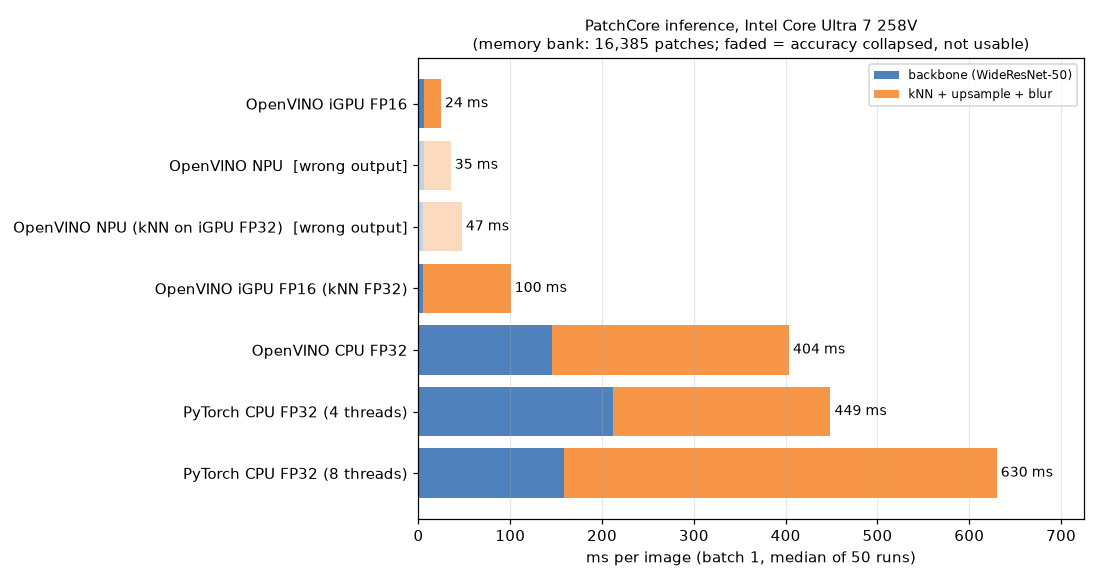
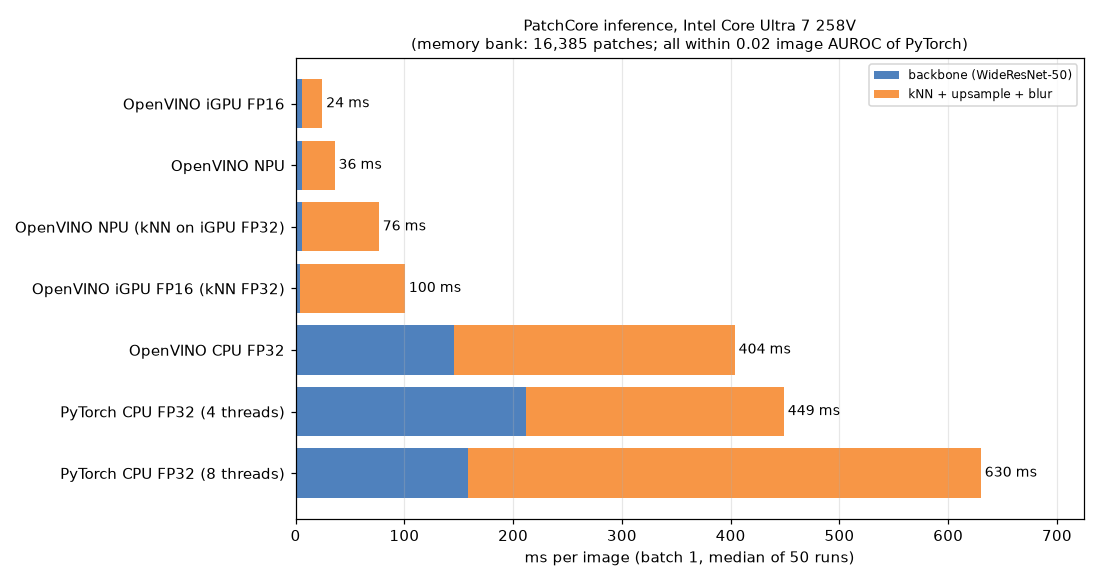
13 PatchCore: fix wrong NPU features (OpenVINO NPU miscompiles padded AvgPool)
Root cause, found by comparing CPU vs NPU tensors stage by stage: the 3x3
local averaging F.avg_pool2d(f, 3, 1, 1) exports as AvgPool with built-in
padding and exclude_pad=false. The NPU compiler (OpenVINO 2026.4.1, NPU 4000)
returns wrong values for every second block of 32 channels on maps above a
size threshold (one-op repro: 512x29x29 or 1024x28x28). Stem and layer1-3 were
correct; the 0.76 / 0.56 correlations were half-right, half-garbage channels.

Fix: zero Pad + unpadded AvgPool (local_average), bit-identical in PyTorch.
NPU now 36 ms/img with AUROC 1.000 / 0.976 / 0.968 (was 0.554 / 0.596 / 0.408).
benchmark.py always re-exports the IR (no stale model) and gains --only to
re-run selected configurations. Test checks the export has no padded AvgPool.

diff --git a/13-anomaly-detection-patchcore/benchmark.py b/13-anomaly-detection-patchcore/benchmark.py
@@ -75,10 +75,10 @@ class Knn(nn.Module):
 
 
 def convert(module, example, path):
-    """Static input shape: the NPU compiler rejects dynamic dimensions."""
-    if not path.exists():
-        m = ov.convert_model(module.eval(), example_input=example, input=[tuple(example.shape)])
-        ov.save_model(m, str(path), compress_to_fp16=False)
+    """Static input shape: the NPU compiler rejects dynamic dimensions. Always re-exported (a few seconds), so a
+    stale IR from older code (e.g. the padded AvgPool the NPU miscomputes) is never reused."""
+    m = ov.convert_model(module.eval(), example_input=example, input=[tuple(example.shape)])
+    ov.save_model(m, str(path), compress_to_fp16=False)
     return path
 
 
@@ -163,6 +163,11 @@ def main():
     ap.add_argument("--warmup", type=int, default=10)
     ap.add_argument("--threads", type=int, nargs="+", default=[4, 8], help="PyTorch CPU thread counts to time")
     ap.add_argument("--plot-only", action="store_true", help="redraw docs/latency.png from docs/latency.json")
+    ap.add_argument(
+        "--only", nargs="+", metavar="TEXT",
+        help="re-run only the OpenVINO configurations whose name contains TEXT (e.g. NPU) and update them in the "
+        "existing docs/latency.json (no PyTorch runs)",
+    )  # fmt: skip
     args = ap.parse_args()
     if args.plot_only:
         return plot(json.loads((DOCS / "latency.json").read_text()), DOCS / "latency.png")
@@ -187,6 +192,7 @@ def main():
             "openvino": ov.get_version(),
             "torch": torch.__version__,
             "devices": {d: core.get_property(d, "FULL_DEVICE_NAME") for d in devices},
+            **({"npu_driver": core.get_property("NPU", "NPU_DRIVER_VERSION")} if "NPU" in devices else {}),
         },
         "latency_category": args.latency_category,
         "memory_bank_size": int(banks[args.latency_category].shape[0]),
@@ -194,10 +200,14 @@ def main():
         "configs": {},
     }
     print(results["machine"], flush=True)
+    configs = [c for c in CONFIGS if not args.only or any(t in c[0] for t in args.only)]
+    if args.only:  # update the selected configurations in place, keep the rest of the file
+        old = json.loads((DOCS / "latency.json").read_text())
+        results["configs"] = old["configs"]
 
     # PyTorch reference (the code path run.py uses: model.predict, batch 1).
     lat_bank = banks[args.latency_category]
-    for n in args.threads:
+    for n in [] if args.only else args.threads:
         torch.set_num_threads(n)
         model.memory_bank = lat_bank
         with torch.no_grad():
@@ -208,7 +218,7 @@ def main():
         print(name, results["configs"][name], flush=True)
     torch.set_num_threads(max(args.threads))
 
-    for name, (bdev, bprec), (kdev, kprec) in CONFIGS:
+    for name, (bdev, bprec), (kdev, kprec) in configs:
         if bdev not in devices or kdev not in devices:
             results["configs"][name] = {"error": f"device not available ({devices})"}
             continue
@@ -230,7 +240,7 @@ def main():
 
     # PyTorch accuracy reference, same code path as the OpenVINO models.
     ref = results["configs"][f"PyTorch CPU FP32 ({max(args.threads)} threads)"]
-    for c in args.accuracy_categories:
+    for c in [] if args.only else args.accuracy_categories:
         model.memory_bank = banks[c]
 
         def torch_predict(x):
@@ -274,7 +284,8 @@ def plot(results, path):
     ax.set_xlim(0, total.max() * 1.15)
     ax.set_title(
         "PatchCore inference, Intel Core Ultra 7 258V\n"
-        f"(memory bank: {results['memory_bank_size']:,} patches; faded = accuracy collapsed, not usable)",
+        f"(memory bank: {results['memory_bank_size']:,} patches"
+        + ("; faded = accuracy collapsed, not usable)" if any(bad) else "; all within 0.02 image AUROC of PyTorch)"),
         fontsize=10,
     )
     ax.legend(loc="upper right", fontsize=8)

diff --git a/tests/test_13_patchcore.py b/tests/test_13_patchcore.py
@@ -61,3 +61,43 @@ def test_greedy_coreset_covers_every_cluster():
     bank = bare_patchcore(5 / len(feats), proj_dim=32)._greedy_coreset(feats)
     picked = labels[torch.cdist(bank, feats).argmin(dim=1)]
     assert sorted(picked.tolist()) == [0, 1, 2, 3, 4]
+
+
+class TinyBackbone(torch.nn.Module):
+    """Stand-in for WideResNet-50 with the attributes FeatureExtractor uses (no weight download)."""
+
+    def __init__(self):
+        super().__init__()
+        torch.manual_seed(0)
+        self.conv1 = self.bn1 = self.relu = self.maxpool = self.layer1 = torch.nn.Identity()
+        self.layer2 = torch.nn.Conv2d(3, 4, 1)
+        self.layer3 = torch.nn.Conv2d(4, 6, 1, stride=2)
+
+
+def test_feature_extractor_local_average_is_zero_padded_3x3_mean():
+    """Each position = mean of its 3x3 neighborhood, zeros outside the map (avg_pool2d count_include_pad=True),
+    the semantics the saved memory banks were computed with."""
+    b = TinyBackbone().eval()
+    x = torch.rand(2, 3, 16, 16)
+    with torch.no_grad():
+        out = pc.FeatureExtractor(b)(x)
+        f2, f3 = b.layer2(x), b.layer3(b.layer2(x))
+        f3 = torch.nn.functional.avg_pool2d(f3, 3, 1, 1)
+        f3 = torch.nn.functional.interpolate(f3, size=(16, 16), mode="bilinear", align_corners=False)
+        ref = torch.cat([torch.nn.functional.avg_pool2d(f2, 3, 1, 1), f3], dim=1)
+    assert out.shape == (2, 10, 16, 16)
+    assert torch.allclose(out, ref, atol=1e-6)
+
+
+def test_feature_extractor_exports_avgpool_without_padding():
+    """The Intel NPU compiler (OpenVINO 2026.4, Core Ultra 200V) miscomputes AvgPool with built-in padding and
+    exclude_pad=false on large maps: every second block of 32 channels comes out wrong. The padding must be a
+    separate Pad op so the exported graph has no padded AvgPool."""
+    ov = pytest.importorskip("openvino")
+    x = torch.rand(1, 3, 16, 16)
+    m = ov.convert_model(pc.FeatureExtractor(TinyBackbone()).eval(), example_input=x, input=[tuple(x.shape)])
+    pools = [op for op in m.get_ordered_ops() if op.get_type_name() == "AvgPool"]
+    assert len(pools) == 2
+    for op in pools:
+        attrs = op.get_attributes()
+        assert not any(attrs["pads_begin"]) and not any(attrs["pads_end"]), attrs

diff --git a/13-anomaly-detection-patchcore/patchcore.py b/13-anomaly-detection-patchcore/patchcore.py
@@ -15,6 +15,13 @@ import torch.nn.functional as F
 from torchvision.models import Wide_ResNet50_2_Weights, wide_resnet50_2
 
 
+def local_average(f):
+    """3x3 mean with zero padding: the same values as F.avg_pool2d(f, 3, 1, 1) (count_include_pad=True), but
+    written as Pad + unpadded AvgPool. The Intel NPU compiler (OpenVINO 2026.4) miscomputes a padded AvgPool
+    with count_include_pad on large maps (every second block of 32 channels wrong); the split form is exact."""
+    return F.avg_pool2d(F.pad(f, (1, 1, 1, 1)), 3, 1)
+
+
 class FeatureExtractor(nn.Module):
     """Mid-level WideResNet-50 features (layer2 + layer3): local enough for small defects, semantic
     enough to ignore pixel noise. A module so the same code is exported to ONNX / OpenVINO."""
@@ -28,9 +35,9 @@ class FeatureExtractor(nn.Module):
         x = b.maxpool(b.relu(b.bn1(b.conv1(x))))
         f2 = b.layer2(b.layer1(x))
         f3 = b.layer3(f2)
-        # Locally aware patch features: average each position with its 3x3 neighborhood.
-        f2 = F.avg_pool2d(f2, 3, 1, 1)
-        f3 = F.avg_pool2d(f3, 3, 1, 1)
+        # Locally aware patch features: average each position with its 3x3 neighborhood (zeros outside).
+        f2 = local_average(f2)
+        f3 = local_average(f3)
         f3 = F.interpolate(f3, size=f2.shape[-2:], mode="bilinear", align_corners=False)
         return torch.cat([f2, f3], dim=1)  # (B, 1536, H, W)
 

diff --git a/13-anomaly-detection-patchcore/README.md b/13-anomaly-detection-patchcore/README.md
@@ -115,9 +115,10 @@ OpenVINO 2026.4. Every configuration is also re-scored on the full bottle, grid 
 | OpenVINO FP32 | CPU | 145 ms | 265 ms | **404 ms** | 1.1× | 1.000 / 0.977 / 0.968 |
 | OpenVINO FP16 backbone, FP32 kNN | Arc 140V iGPU | 4.4 ms | 78 ms | 100 ms | 4.5× | 1.000 / 0.977 / 0.968 |
 | **OpenVINO FP16** | **Arc 140V iGPU** | **5.6 ms** | **12 ms** | **24 ms** | **18×** | **1.000 / 0.977 / 0.968** |
-| OpenVINO (FP16) | AI Boost NPU | 6.0 ms | 28 ms | 35 ms | (13×) | **0.554 / 0.596 / 0.408: wrong output** |
+| OpenVINO (FP16) | AI Boost NPU | 5.8 ms | 27 ms | **36 ms** | **12.5×** | 1.000 / 0.976 / 0.968 |
 
-(Totals include the copy between the two models. Pixel AUROC on the iGPU is also unchanged: 0.984 / 0.976 / 0.989.
+(Totals include the copy between the two models. Pixel AUROC on the iGPU and the NPU is also unchanged (±0.001): 0.984 / 0.976 / 0.989.
+NPU backbone + FP32 kNN on the iGPU: 76 ms, AUROC identical to PyTorch.
 Full numbers: [`docs/latency.json`](docs/latency.json).)
 
 ![Latency per configuration](docs/latency.png)
@@ -131,11 +132,27 @@ Full numbers: [`docs/latency.json`](docs/latency.json).)
 - **On the CPU alone OpenVINO helps little** (1.1× here, 1.4× in an earlier run: 283 vs 389 ms): most of the time
   is the large kNN matrix product, which PyTorch already does with an optimized BLAS. Timings on this laptop
   vary ±30 % between runs because other jobs share it; the iGPU numbers were the most stable (24–32 ms).
-- **The NPU compiles and runs fast, but computes the wrong features.** Its backbone output correlates only 0.76
-  (layer 2) and 0.56 (layer 3) with the CPU's on the same input, so AUROC falls to chance level. The iGPU in FP16
-  matches the CPU to 0.002. The first attempt didn't even compile on the NPU (it needs static input shapes; the
-  compiler aborted the process). I didn't find the root cause (likely an NPU compiler issue with one of the
-  backbone's layers); the NPU is not usable for this model as is.
+- **The NPU now matches too: 36 ms per image, same AUROC** (grid 0.976 vs 0.977, the same small FP16 kNN effect
+  as on the iGPU). It first gave chance-level AUROC (0.554 / 0.596 / 0.408) because of an **NPU compiler bug**, found
+  by comparing tensors stage by stage on 3 test images against PyTorch:
+  - every layer of the WideResNet (stem, layer1–3) matched the CPU to FP16 precision; the error appeared at the
+    3×3 local averaging, `F.avg_pool2d(f, 3, 1, 1)`, which exports as an OpenVINO `AvgPool` with built-in padding
+    and `exclude_pad=false` (PyTorch's default `count_include_pad=True`);
+  - on the NPU that op returns wrong values in **every second block of 32 channels** (channels 32–63, 96–127, …),
+    while the other half matches to 1e-4. Hence the misleading 0.76 / 0.56 "correlations": half the channels were
+    right, half garbage;
+  - smallest reproduction: one `AvgPool(3×3, stride 1, pad 1)` on random data. It is correct up to 512 × 28 × 28 and
+    wrong from 512 × 29 × 29 or 1,024 × 28 × 28 (a size threshold, probably where the compiler starts tiling the op;
+    inside the full model even the 512 × 28 × 28 one fails). The same op with `exclude_pad=true`, a separate `Pad`
+    followed by an unpadded `AvgPool`, or a 3×3 depthwise convolution are all correct. It is not FP16 precision,
+    input layout, output order, the static shapes or a stale compile cache (reproduced with no cache dir);
+  - **fix:** [`patchcore.py`](patchcore.py) writes the averaging as zero `Pad` + unpadded `AvgPool`
+    (`local_average`). That is the same computation, so PyTorch features are bit-identical (max difference 0.0;
+    memory banks and all accuracy numbers unchanged), and the NPU backbone now matches the CPU (correlation 1.00000
+    on both layers). A unit test checks the exported graph has no padded `AvgPool`. Versions: OpenVINO 2026.4.1, NPU
+    compiler 8.4, driver 1004724 (Core Ultra 7 258V, NPU 4000).
+  - The NPU needs static input shapes (with dynamic shapes the compiler aborted the process), and `benchmark.py`
+    now re-exports the IR on every run so a stale model is never reused.
 - Before: the README's desktop number was ~390–570 ms per image in PyTorch (batch 8, including data loading).
 
 ## How it works
@@ -179,6 +196,7 @@ python run.py                     # all 15 categories, resumable (skips finished
 python threshold.py               # operating thresholds at 99 % recall (--recall 0.95 for another target)
 python report.py                  # docs/results_chart.png + the README table
 python benchmark.py               # OpenVINO export + latency on CPU / iGPU / NPU + accuracy check
+python benchmark.py --only NPU    # re-run only the NPU configurations, update them in docs/latency.json
 ```
 
 Get the data (≈ 5 GB for all 15 categories, loose PNG files, no archive to extract):
@@ -232,8 +250,8 @@ python web/build.py && python web/validate.py     # writes to ../../cv-data/mvte
 - Calibrate the threshold with a safety margin (or a conformal bound) so the 99 % promise holds on unseen parts,
   and report it against more defect samples (e.g. MVTec AD 2 or VisA).
 - Close the pixel-AUROC gap on textures (larger feature maps or higher input resolution).
-- INT8 quantization of the backbone (NNCF), as in project 19, and find why the NPU computes wrong features
-  (bisect the backbone layer by layer on the NPU).
+- INT8 quantization of the backbone (NNCF), as in project 19, and report the NPU `AvgPool` padding bug upstream
+  (OpenVINO NPU plugin) with the one-op reproduction above.
 
 ## Tech stack
 
